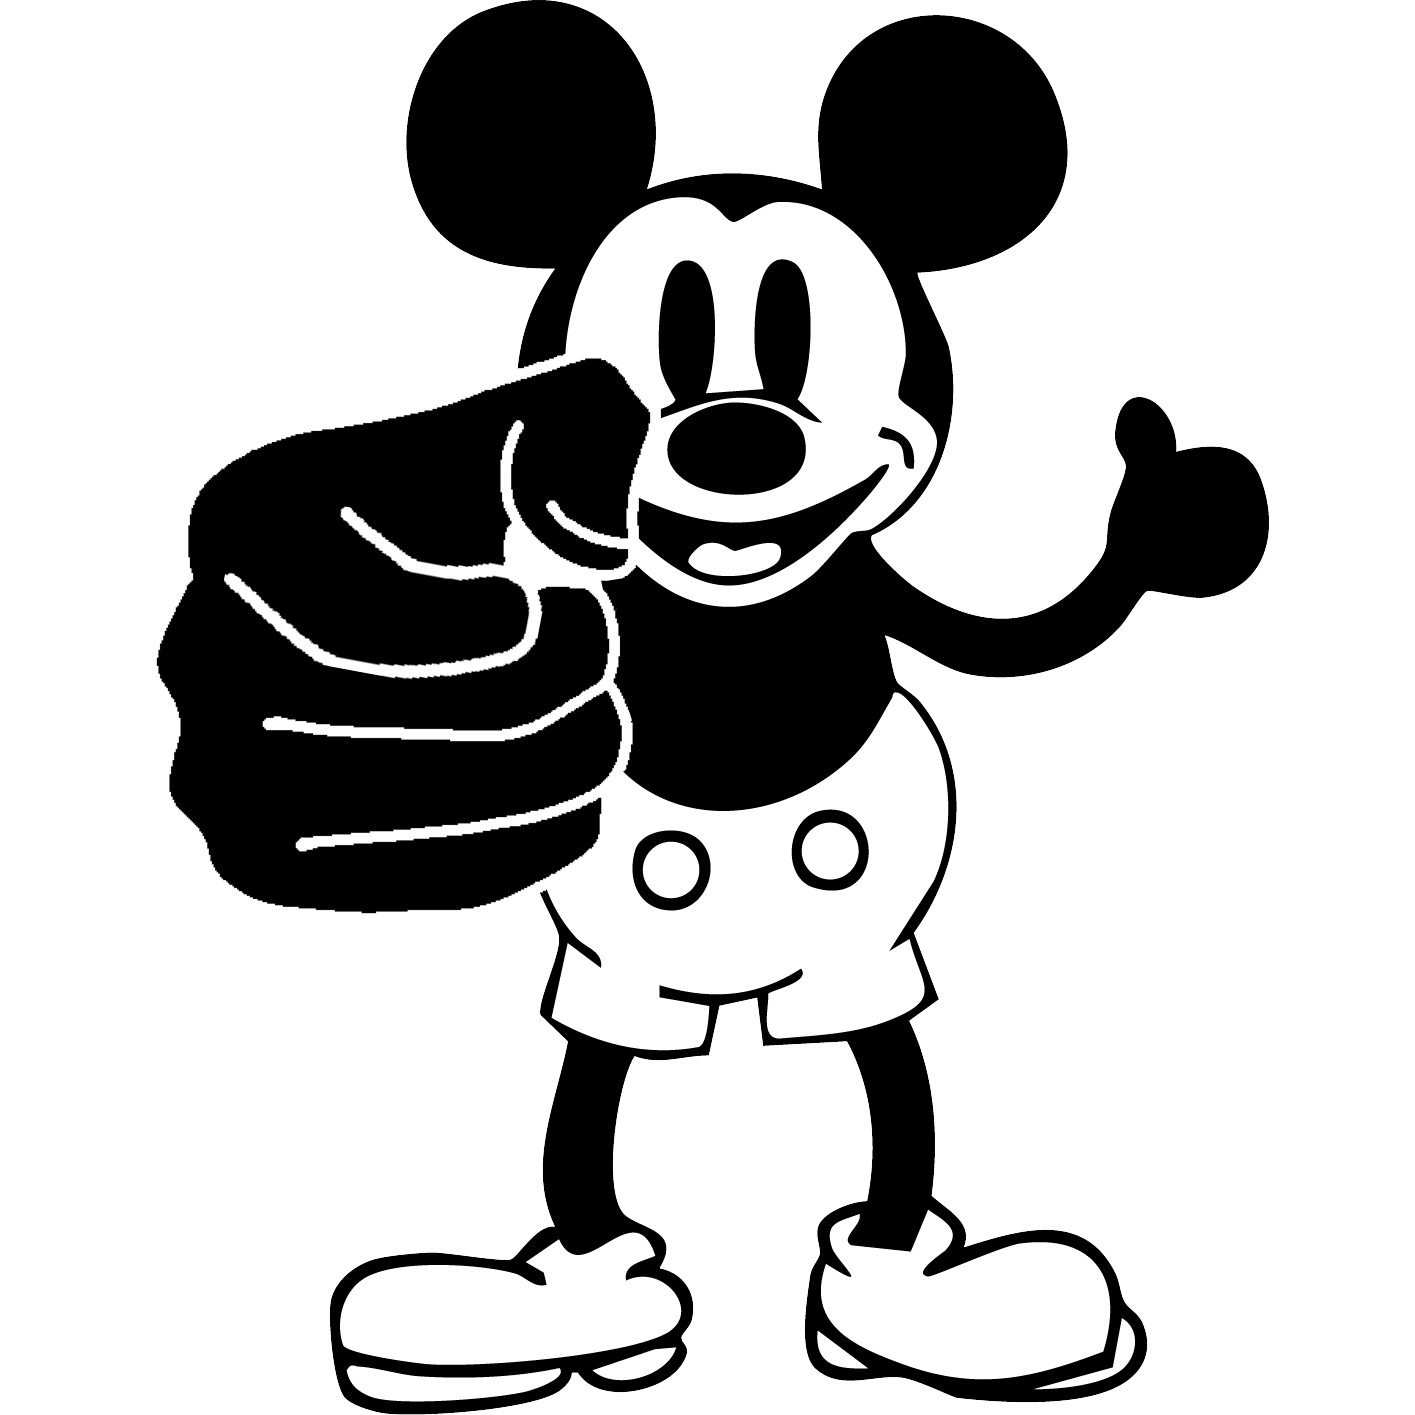
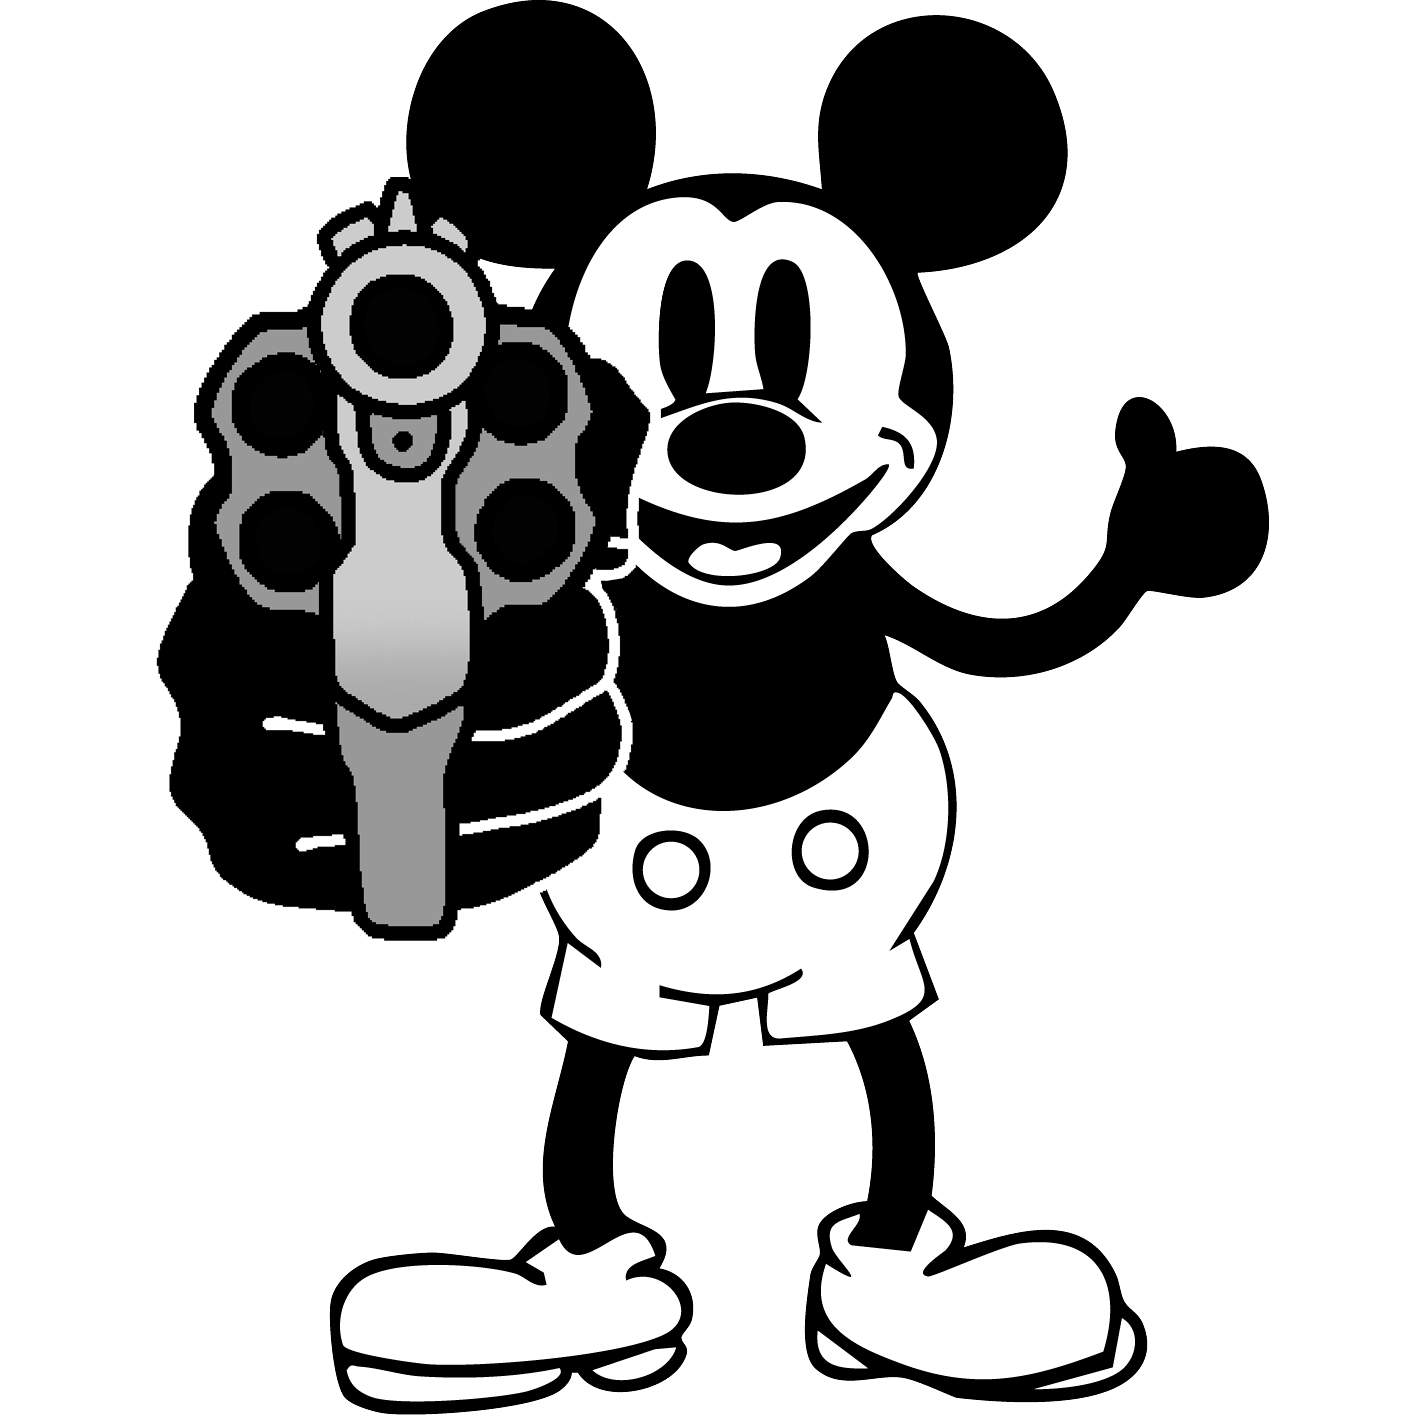
added hand for all characters

Changed region(s): [[0.1244, 0.1244, 0.4353, 0.6841], [0.2799, 0.9951, 0.311, 1.0]]

diff --git a/src/components/character-gun.tsx b/src/components/character-gun.tsx
@@ -7,7 +7,7 @@ import React, {
 import { createPortal } from 'react-dom'
 import mergeRefs from 'merge-refs'
 
-import { IMAGES } from '@/lib/constants'
+import { CharacterName, CharacterType, IMAGES } from '@/lib/constants'
 import { cn, waitEndAudio } from '@/lib/utils'
 import { useSettingsStore } from '@/store/settings.store'
 import { Click } from '@/components/guns/click'
@@ -24,15 +24,59 @@ export interface GunHandle {
 export interface GunCharacterProps
   extends React.HtmlHTMLAttributes<HTMLDivElement> {
   gunHandleRef?: React.ForwardedRef<GunHandle>
+  characterName: CharacterName
+  characterType: CharacterType
   hideGun?: boolean
 }
 
+const imagesMap = {
+  fatty: {
+    hand: IMAGES.gunhandcharacterfatty,
+    finger: IMAGES.gunfingercharacterfatty,
+  },
+  mickey: {
+    hand: IMAGES.gunhandcharactermickey,
+    finger: IMAGES.gunfingercharactermickey,
+  },
+  nubcat: {
+    hand: IMAGES.gunhandcharacternubcat,
+    finger: IMAGES.gunfingercharacternubcat,
+  },
+  'anime-1': {
+    hand: IMAGES.gunhandcharacteranime,
+    finger: IMAGES.gunfingercharacteranime,
+  },
+  'anime-2': {
+    hand: IMAGES.gunhandcharacteranime,
+    finger: IMAGES.gunfingercharacteranime,
+  },
+} satisfies Record<CharacterName, { hand: string; finger: string } | null>
+
 const GunCharacter = React.forwardRef<HTMLDivElement, GunCharacterProps>(
-  ({ className, gunHandleRef, hideGun = false, ...props }, ref) => {
+  (
+    {
+      className,
+      gunHandleRef,
+      characterName,
+      characterType,
+      hideGun = false,
+      ...props
+    },
+    ref,
+  ) => {
     const playAudio = useSettingsStore(({ playAudio }) => playAudio)
     const gunRef = useRef<HTMLDivElement>(null)
     const rotateRef = useRef(0)
     const [showShot, setShowShot] = useState(false)
+    const isFront = characterType === 'front'
+    const isBack = characterType === 'back'
+    const isNubcat = characterName === 'nubcat'
+    const isMickey = characterName === 'mickey'
+    const isFatty = characterName === 'fatty'
+    const isAnime1 = characterName === 'anime-1'
+    const isAnime2 = characterName === 'anime-2'
+
+    const images = imagesMap[characterName]
 
     const shot = useCallback(async () => {
       const gunShotAudio = await playAudio('gunshot')
@@ -79,35 +123,64 @@ const GunCharacter = React.forwardRef<HTMLDivElement, GunCharacterProps>(
       <>
         <div
           ref={mergeRefs(ref, gunRef)}
-          className={cn('relative aspect-[1/1.95]', className)}
+          className={cn(
+            'absolute z-1 aspect-[1/1.5]',
+            isFront && isNubcat && 'top-0 left-[30%] aspect-[1/2.3] w-[40%]',
+            isFront &&
+              isMickey &&
+              'top-[13%] left-[14%] aspect-[1/1.8] w-[29.5%]',
+            isFront &&
+              isFatty &&
+              'top-[6%] left-[15%] aspect-[1/2.4] w-[22.5%] rotate-12',
+            isFront &&
+              isAnime1 &&
+              'top-[24%] left-[10%] aspect-[1/1.82] w-[14.5%]',
+            isFront &&
+              isAnime2 &&
+              'top-[15%] left-[33%] aspect-[1/2.1] w-[14%]',
+            isBack && isNubcat && 'right-[6%] w-[20%]',
+            isBack && isMickey && 'top-[17%] right-[22%] w-[10%]',
+            isBack && isFatty && 'right-[14%] w-[14%] -rotate-8',
+            isBack && isAnime1 && 'top-[20%] left-[30%] w-[6.5%]',
+            isBack && isAnime2 && 'top-[17%] right-[33.5%] w-[6%]',
+            className,
+          )}
           {...props}
         >
           <Click
-            leftClick={{
-              className: 'w-[80%]',
-            }}
-            rightClick={{
-              className: 'w-[80%]',
-            }}
+            leftClick={{ className: 'w-[80%]' }}
+            rightClick={{ className: 'w-[80%]' }}
           />
           <div
             className={cn(
-              'absolute bottom-0 left-[-10%] aspect-square w-[140%] bg-contain bg-center bg-no-repeat',
+              'absolute bottom-[-10%] left-[40%] aspect-[1632/1830] h-[90%] -translate-x-1/2 bg-contain bg-center bg-no-repeat',
               hideGun && 'opacity-0',
+              isFront && isMickey && 'bottom-[0%] left-1/2 h-[80%]',
+              isFront && isFatty && 'bottom-0 h-[64%]',
+              isFront && isAnime1 && 'bottom-0 left-1/2 h-[65%]',
+              isFront && isAnime2 && 'bottom-0 left-1/2 h-[65%]',
             )}
-            style={{
-              backgroundImage: `url(${IMAGES.gunhandcharacter})`,
-            }}
+            style={
+              images
+                ? {
+                    backgroundImage: `url(${images.hand})`,
+                  }
+                : {}
+            }
             data-hand
           >
             <div
               className={cn(
-                'absolute top-[10%] left-[10%] aspect-square w-[60%] bg-contain bg-center bg-no-repeat transition-all',
+                'absolute top-[12%] left-[15%] aspect-square w-[60%] bg-contain bg-center bg-no-repeat transition-all',
                 'duration-100 [&.is-trigger]:-rotate-10',
               )}
-              style={{
-                backgroundImage: `url(${IMAGES.gunfingercharacter})`,
-              }}
+              style={
+                images
+                  ? {
+                      backgroundImage: `url(${images.finger})`,
+                    }
+                  : {}
+              }
               data-finger
             ></div>
           </div>

diff --git a/src/components/character.tsx b/src/components/character.tsx
@@ -6,7 +6,7 @@ import { CHARACTER_LIST, CharacterName, CharacterType } from '@/lib/constants'
 import { GunCharacter, GunHandle } from '@/components/character-gun'
 
 interface CharacterProps extends React.HtmlHTMLAttributes<HTMLDivElement> {
-  characterName: CharacterName
+  name: CharacterName
   type: CharacterType
   beforeSlot?: React.ReactNode
   characterHandleRef?: React.ForwardedRef<CharacterHandle>
@@ -21,21 +21,12 @@ export interface CharacterHandle {
 
 const Character = React.forwardRef<HTMLDivElement, CharacterProps>(
   (
-    {
-      characterName,
-      className,
-      beforeSlot,
-      characterHandleRef,
-      type,
-      ...props
-    },
+    { name, className, beforeSlot, characterHandleRef, type, ...props },
     ref,
   ) => {
     const frontGunHandleRef = useRef<GunHandle>(null)
     const backGunHandleRef = useRef<GunHandle>(null)
     const [isDead, setIsDead] = useState(false)
-    const isFront = type === 'front'
-    const isBack = type === 'back'
 
     useImperativeHandle(characterHandleRef, () => {
       return {
@@ -65,29 +56,18 @@ const Character = React.forwardRef<HTMLDivElement, CharacterProps>(
           className={cn(
             'absolute inset-0',
             'scale-75 -rotate-y-180 bg-contain transition-all duration-500 backface-hidden',
-            isFront && 'scale-100 rotate-y-0',
+            type === 'front' && 'scale-100 rotate-y-0',
           )}
         >
           <div
-            className='absolute inset-0 z-1 bg-contain bg-bottom bg-no-repeat'
+            className='absolute inset-0 bg-contain bg-bottom bg-no-repeat'
             style={{
-              backgroundImage: `url(${CHARACTER_LIST[characterName]['front']})`,
+              backgroundImage: `url(${CHARACTER_LIST[name]['front']})`,
             }}
           ></div>
           <GunCharacter
-            className={cn(
-              'absolute z-1',
-              characterName === 'nubcat' &&
-                'top-0 left-[30%] aspect-[1/2.3] w-[40%]',
-              characterName === 'mickey' &&
-                'top-[15%] left-[16%] aspect-[1/1.7] w-[26%]',
-              characterName === 'fatty' &&
-                'top-[5%] left-[15%] aspect-[1/2.4] w-[22%] rotate-11',
-              characterName === 'anime-1' &&
-                'top-[25%] left-[12%] aspect-[1/2] w-[13%]',
-              characterName === 'anime-2' &&
-                'top-[16%] left-[33%] aspect-[1/2] w-[14%]',
-            )}
+            characterName={name}
+            characterType={'front'}
             gunHandleRef={frontGunHandleRef}
           />
         </div>
@@ -95,24 +75,18 @@ const Character = React.forwardRef<HTMLDivElement, CharacterProps>(
           className={cn(
             'absolute inset-0',
             'scale-75 -rotate-y-180 transition-all duration-500 backface-hidden',
-            isBack && 'scale-100 rotate-y-0',
+            type === 'back' && 'scale-100 rotate-y-0',
           )}
         >
           <div
             className='absolute inset-0 z-2 bg-contain bg-bottom bg-no-repeat'
             style={{
-              backgroundImage: `url(${CHARACTER_LIST[characterName]['back']})`,
+              backgroundImage: `url(${CHARACTER_LIST[name]['back']})`,
             }}
           ></div>
           <GunCharacter
-            className={cn(
-              'absolute z-1 aspect-[1/1.7]',
-              characterName === 'nubcat' && 'right-[6%] w-[20%]',
-              characterName === 'mickey' && 'top-[17%] right-[22%] w-[10%]',
-              characterName === 'fatty' && 'right-[16%] w-[10%] -rotate-20',
-              characterName === 'anime-1' && 'top-[20%] left-[29%] w-[7%]',
-              characterName === 'anime-2' && 'top-[17%] right-[34%] w-[7%]',
-            )}
+            characterName={name}
+            characterType={'back'}
             gunHandleRef={backGunHandleRef}
             hideGun={true}
           />

diff --git a/src/lib/constants.ts b/src/lib/constants.ts
@@ -28,8 +28,14 @@ export const IMAGES = {
   gunbody: '/assets/images/compressed/gun-body.png',
   gunchambercharacter: '/assets/images/gun-chamber-character.png',
   gunbodycharacter: '/assets/images/gun-body-character.png',
-  gunhandcharacter: '/assets/images/gun-hand-character.png',
-  gunfingercharacter: '/assets/images/gun-finger-character.png',
+  gunhandcharacternubcat: '/assets/images/gun-hand-character-nubcat.png',
+  gunfingercharacternubcat: '/assets/images/gun-finger-character-nubcat.png',
+  gunhandcharactermickey: '/assets/images/gun-hand-character-mickey.png',
+  gunfingercharactermickey: '/assets/images/gun-finger-character-mickey.png',
+  gunhandcharacterfatty: '/assets/images/gun-hand-character-fatty.png',
+  gunfingercharacterfatty: '/assets/images/gun-finger-character-fatty.png',
+  gunhandcharacteranime: '/assets/images/gun-hand-character-anime.png',
+  gunfingercharacteranime: '/assets/images/gun-finger-character-anime.png',
   solo: '/assets/images/solo.svg',
   play: '/assets/images/play.svg',
   pull: '/assets/images/pull.svg',
@@ -95,7 +101,7 @@ export type CharacterType = 'back' | 'front'
 
 export const CHARACTER_NAMES = Object.keys(CHARACTER_LIST) as CharacterName[]
 
-export const DISABLED_CHARACTER_NAMES: CharacterName[] = ['anime-2']
+export const DISABLED_CHARACTER_NAMES: CharacterName[] = []
 
 export const AUDIOS = {
   revolverspin: '/assets/audios/revolverspin.mp3',

diff --git a/src/pages/duel.page.tsx b/src/pages/duel.page.tsx
@@ -104,7 +104,7 @@ const DuelPage = ({ variant }: { variant: VariantGame }) => {
             <div className='relative mb-1 pb-10'>
               <Character
                 className={cn('ml-6 max-h-[220px] max-w-[180px]')}
-                characterName={characterName}
+                name={characterName}
                 type='back'
                 onClick={
                   variant === 'play' && isStartedGame

diff --git a/src/components/character-selector.tsx b/src/components/character-selector.tsx
@@ -81,7 +81,7 @@ const CharacterSelector = ({
                   disabled={disabled}
                 >
                   <Character
-                    characterName={name}
+                    name={name}
                     type={type}
                     className='animate-in fade-in zoom-in-150 h-full'
                   />

diff --git a/src/components/footer.tsx b/src/components/footer.tsx
@@ -13,6 +13,7 @@ const Footer = ({
   // format,
   variant,
 }: {
+  // TODO: REMOVE
   format: FormatGame
   variant: VariantGame
   showHelpers?: boolean
